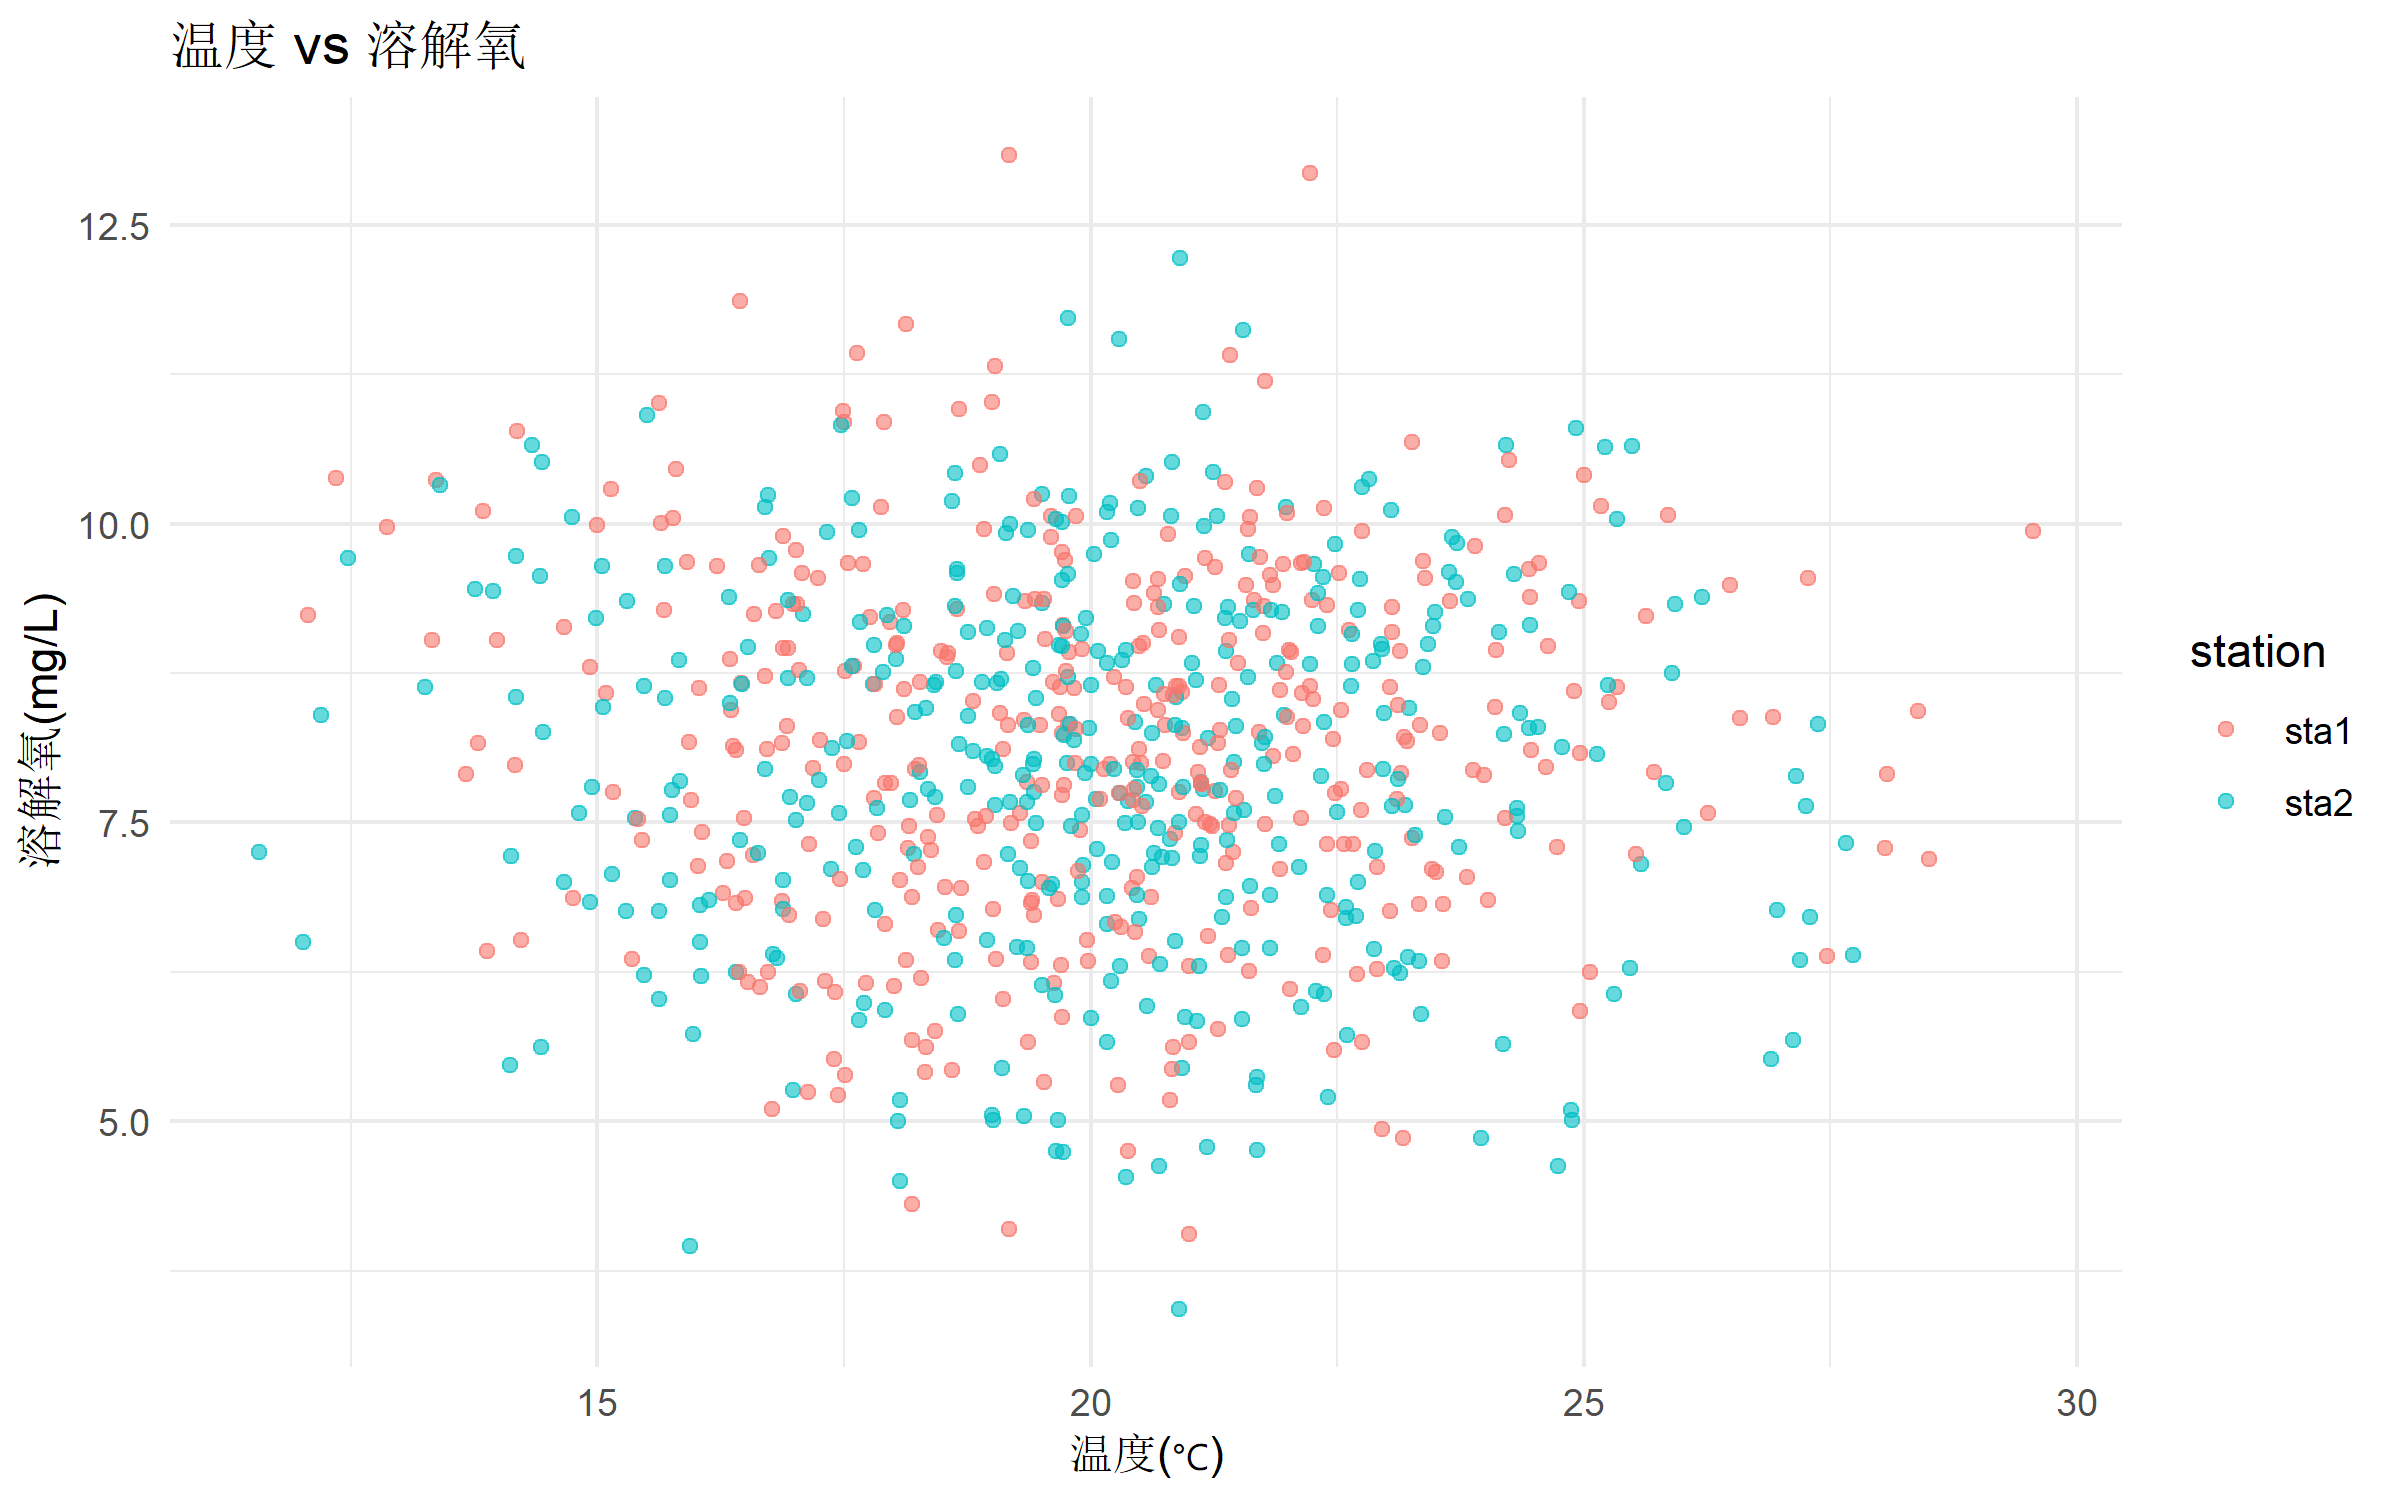
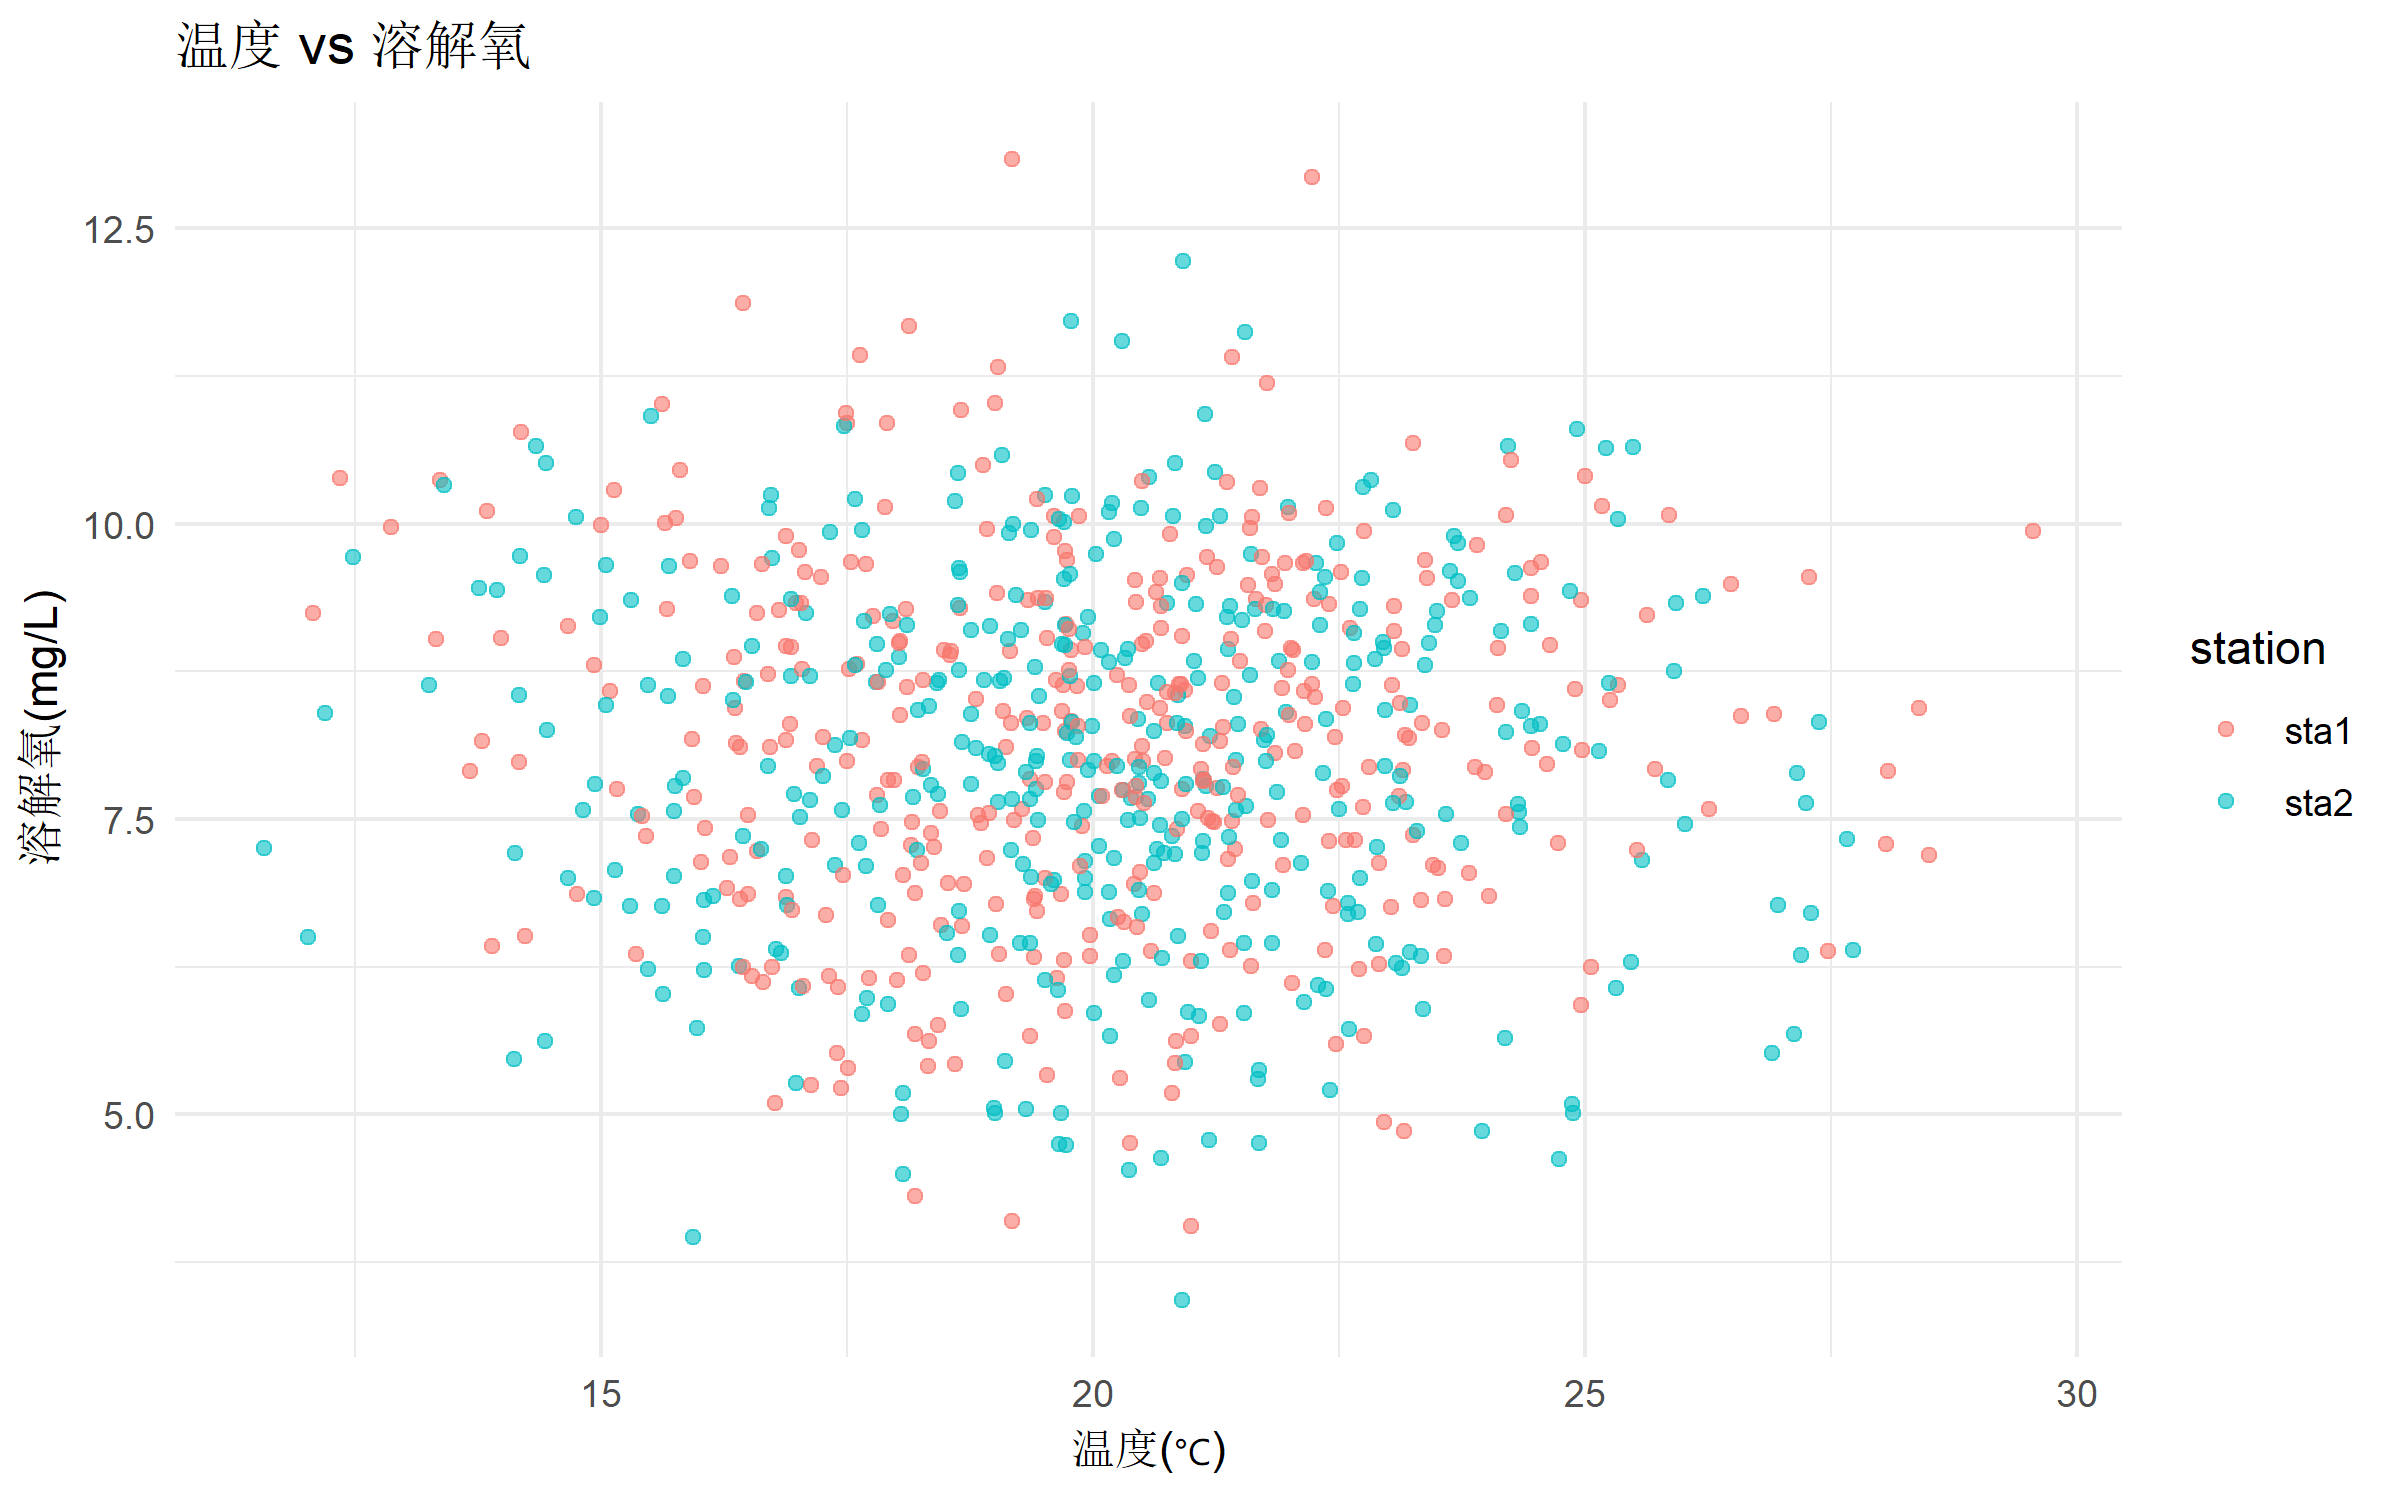
项目最终调试及修改

diff --git a/README.md b/README.md
@@ -74,4 +74,4 @@ Note, the datasets used in this study and available here are collected by the Na
 
 - @刘芸慧：环境配置、代码调试、报告撰写
 - @肖新怡：数据说明、README 修改
-- @周炎：测试环境、提交记录
+- @周炎：测试环境、提交记录、最终修改